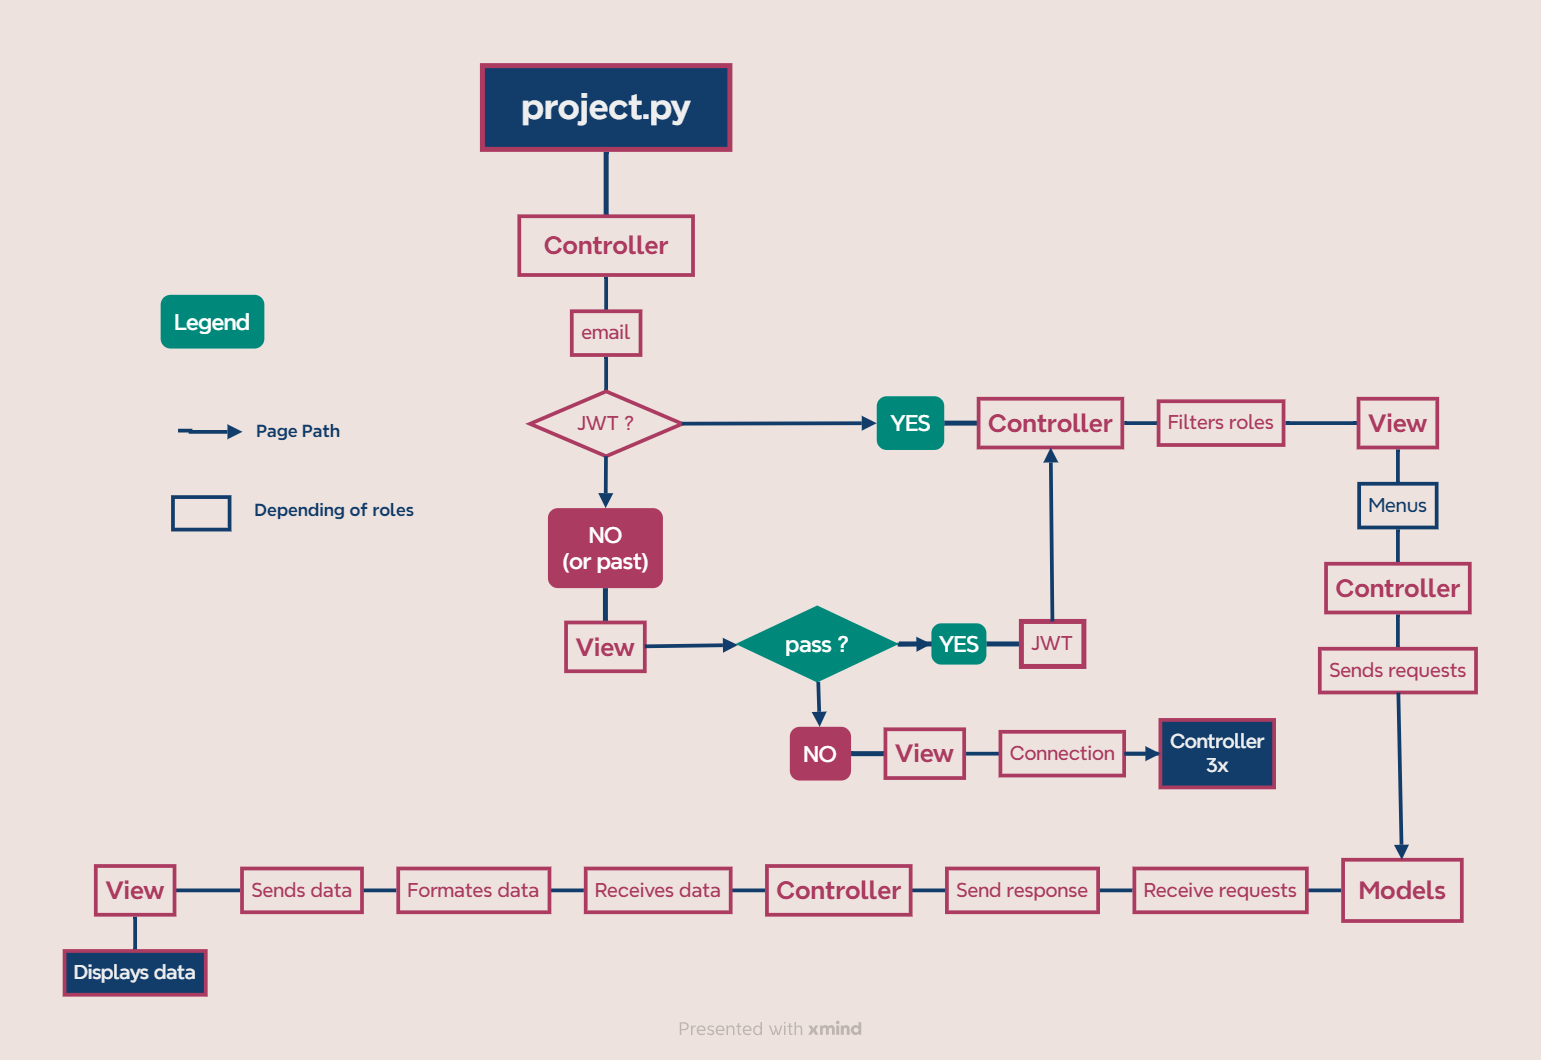
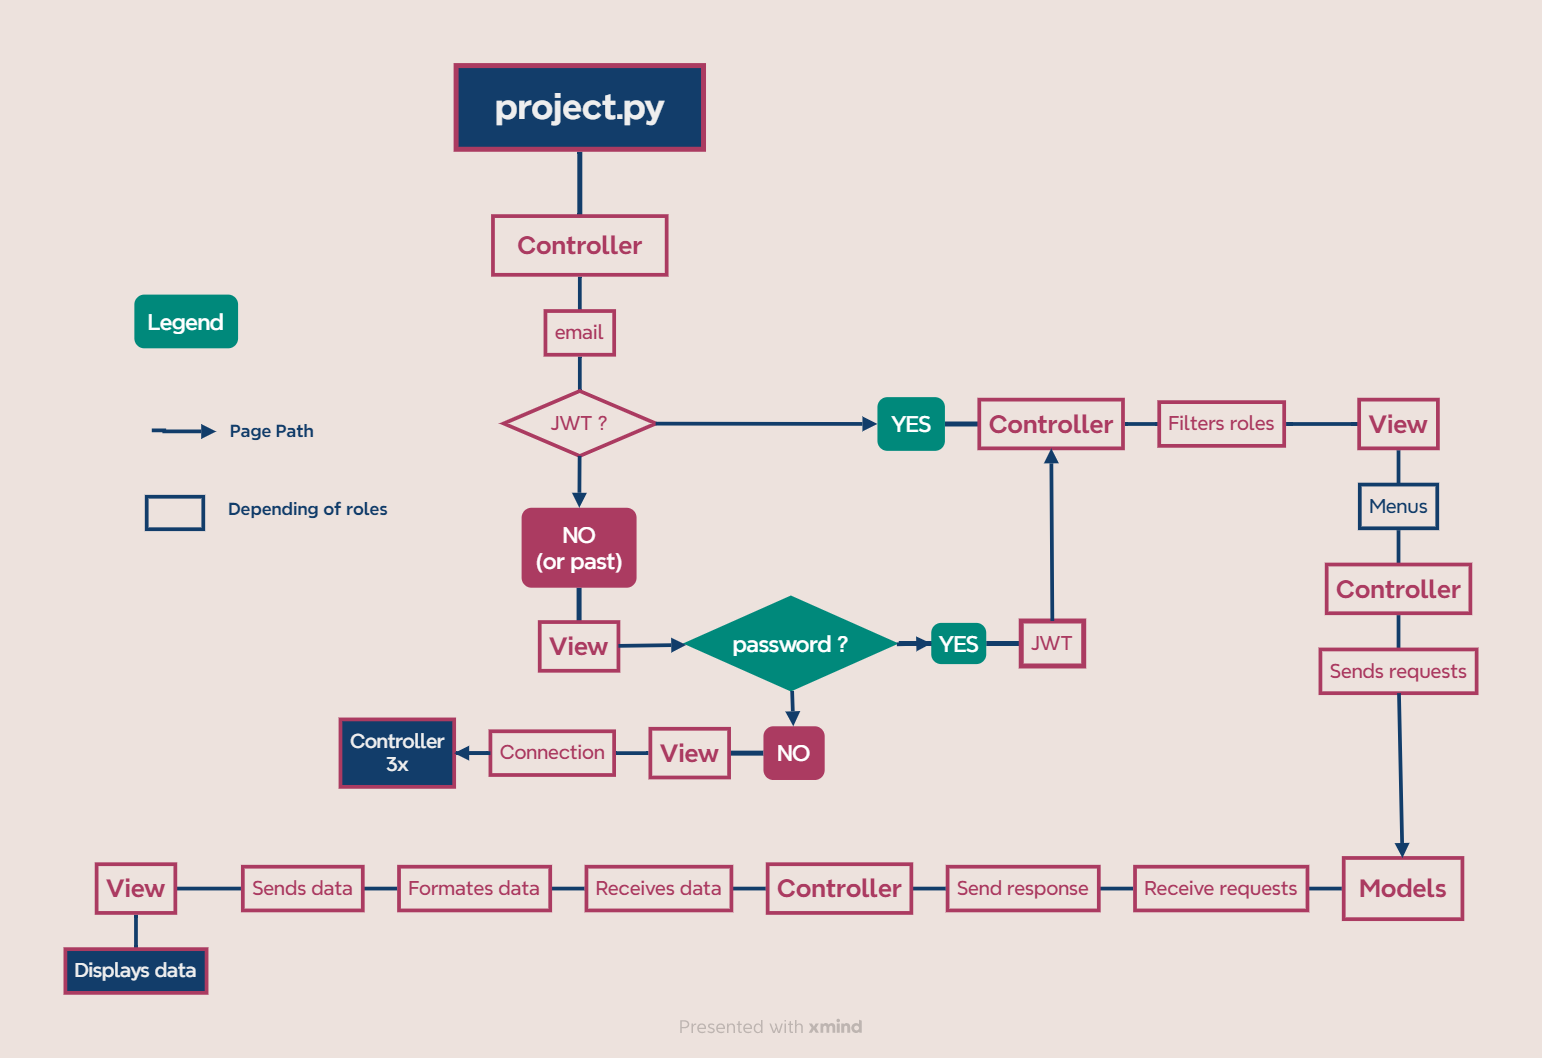
WIP Delete the 'refresh' use. TODO: new token use + test the both.

diff --git a/epic_events/manager.py b/epic_events/manager.py
@@ -43,13 +43,6 @@ class Manager():
         self.session.add(itemName) 
         self.session.commit() 
 
-        # # get token: 
-        # token = self.get_token(2, { 
-        #     'email': fields['email'], 
-        #     # 'pass': fields['password'], 
-        #     'dept': department_name 
-        # }) 
-
         items_db = self.select_all_entities('users') 
         last_item_db = items_db.pop() 
         return last_item_db 
@@ -100,19 +93,6 @@ class Manager():
                 self.session.add(itemName) 
                 self.session.commit() 
 
-                # # get token: 
-                # token = self.get_token(2, { 
-                #     'email': fields['email'], 
-                #     'dept': department_name 
-                # }) 
-
-                # # register token 
-                # self.register_token( 
-                #     fields['email'], 
-                #     'token', 
-                #     token 
-                # ) 
-                # print('Token créé et enregistré. ') 
                 items_db = self.select_all_entities('users') 
 
             elif entity == 'client': 
@@ -623,14 +603,11 @@ class Manager():
     def get_token(self, delta:int, data:dict): 
         """ Creates a token for the new user, that indicates his.her department, 
             with <delta> seconds before expiration. 
-            The type of token can be: 
-                'token' of 'refresh' 
             Args: 
                 delta (int): The number of seconds before expiration. 
                 data (dict): The payload data for the creation of the token: 
                     "email", 
-                    "dept" (name), 
-                    "type" (of token). 
+                    "dept" (name). 
             Returns: 
                 string: The token to register for later use. 
         """ 
@@ -649,7 +626,7 @@ class Manager():
         """ Register the admin token in a crypted file. 
             Process: 
                 - Get the key for encrypt the data. 
-                - Set the email/token/token type as a dictionary. 
+                - Set the email/token as a dictionary. 
                 - Encrypt the data. 
                 - register the data into the file.  
             Args: 
@@ -669,8 +646,6 @@ class Manager():
         # ouvrir le fichier users en écriture en bytes 
         # enregistrer le hash dans le fichier 
         # Encrypt the token 
-        # encrypted = cipher_suite.encrypt(usersTokens) 
-        # encrypted = cipher_suite.encrypt(str(registered).encode('utf-8')) 
         encrypted = cipher_suite.encrypt(str(data_to_encrypt).encode('utf-8')) 
         # Register the encrypted token 
         with open(os.environ.get('TOKEN_PATH'), 'wb') as encrypted_file:
@@ -712,15 +687,15 @@ class Manager():
         # Get the decrypted tokens data 
         registeredData = self.decrypt_token() 
         users = registeredData['users'] 
-        print('users ML727 :', users) 
+        # print('users ML727 :', users) 
         for row in users: 
             # print(row) 
             if connectEmail == row['email']: 
                 users.pop(row) 
-        print('users after pop : ', users) 
+        # print('users after pop : ', users) 
 
         registered['users'] = users 
-        print('registered after ML731 : ', registered) 
+        # print('registered after ML731 : ', registered) 
 
         # Encrypt the token 
         encrypted = cipher_suite.encrypt(str(registered).encode('utf-8')) 
@@ -762,18 +737,7 @@ class Manager():
                         IF it is NOT PAST: 
                             Return the role's permission name 
                         IF it is past: 
-                            Check the delay of expiration 
-                            IF delay >= 1h: 
-                                return 'past' 
-                            IF delay <= 1h: 
-                                Check the tokenType 
-                                IF the tokenType == 'token': 
-                                    Call get_token() with 'refresh' type for refreshing the token 
-                                        (and update + encrypt it into the encrypted file). 
-                                    Return tne role's permission for creation of the 
-                                    user_session by the Controller. 
-                                IF the tokenType == 'refresh': 
-                                    return 'past' 
+                            return 'past' 
                     IF token NOT ok: 
                         return False. 
                 IF token does NOT exist: 
@@ -798,14 +762,10 @@ class Manager():
         if connectEmail == row['email']: 
             # print('ok row : ', row) 
             registeredToken = row['token'] 
-            registeredType = row['type'] 
         # print('registeredToken ML818 : ', registeredToken) 
 
         secret = os.environ.get('JWT_SECRET') 
         algo = os.environ.get('JWT_ALGO') 
-        print('today tuesday') 
-        test = jwt.get_unverified_header(registeredToken) 
-        print('test :', test) 
 
         try: 
             self.userDecode = jwt.decode( 
@@ -813,11 +773,11 @@ class Manager():
                 secret, 
                 algorithms=[algo] 
             ) 
-            print('self.userDecode ML813 : ', self.userDecode) 
+            print('self.userDecode ML810 : ', self.userDecode) 
             userDecode_exp = int(self.userDecode.pop('exp'))-3600 
-            print('time() ML815 :', time()) 
-            print('userDecode_exp ML816 :', userDecode_exp) 
-        # if userDecode_exp < time(): 
+            # print('time() ML815 :', time()) 
+            # print('userDecode_exp ML816 :', userDecode_exp) 
+
             permission = '' 
             if userDecode['dept'] == 'gestion': 
                 permission = 'GESTION' 
@@ -830,48 +790,13 @@ class Manager():
 
         except ExpiredSignatureError as expired: 
             print('expired') 
-            print('self.userDecode :', self.userDecode) 
-            userDecode_exp = int(self.userDecode.pop('exp'))-3600 
-            print('time() ML832 :', time()) 
-            print('userDecode_exp ML833 :', userDecode_exp) 
-            decode_exp = int(self.userDecode.pop('exp'))-3600 
-            print('decode_exp :', decode_exp) 
-            print('time :', time) 
-            # exp_datetime = datetime.strptime(decode_exp, "%m/%d/%Y, %H:%M:%S")  
-            # delay_exp = datetime.now() - exp_datetime 
-            delay_exp = decode_exp-time 
-            print('delay_exp :', delay_exp) 
-
-            if decode_exp >= (datetime+3601): 
-                print('délai + d\'1h. ') 
-            else: 
-                print('délai - d\'1h. ') 
-
-                if registeredType == 'token': 
-                    # print('registeredType ML824 :', registeredType) 
-                    new_token = self.get_token(10, { 
-                        "email": connectEmail, 
-                        "dept": connectDept 
-                    }) 
-                    self.register_token(connectEmail, 'refresh', new_token) 
-                    permission = '' 
-                    if connectDept == 'gestion': 
-                        permission = 'GESTION' 
-                    elif connectDept == 'commerce': 
-                        permission = 'COMMERCE' 
-                    elif connectDept == 'support': 
-                        permission = 'SUPPORT' 
-                    # print('permission ML818 :', permission) 
-                    return permission 
-                else: 
-                    # print('registeredType ML835 :', registeredType) 
-                    return 'past' 
+            return 'past' 
 
         except InvalidToken as invalid: 
             print(invalid) 
-            return None 
+            return False 
 
-    def register_token(self, email, tokenType, token): 
+    def register_token(self, email, token): 
         """ Register the token in a crypted file. 
             Process: 
                 - Get the key for encrypt/decrypt the data. 
@@ -913,7 +838,6 @@ class Manager():
             print('row :', row) 
             if email == row['email']: 
                 print('ok row : ', row) 
-                row['type'] = tokenType 
                 row['token'] = token 
                 # Update the token 
                 presents.append(row['email']) 
@@ -921,7 +845,7 @@ class Manager():
         if presents == []: 
             # print('presents is emplty : ', presents) 
             # Add the new user into the dict users 
-            users.append({"email": email, "type": tokenType, "token": token}) 
+            users.append({"email": email, "token": token}) 
         registered['users'] = users 
 
         # chiffrer registered mis à jour 

diff --git a/epic_events/controller.py b/epic_events/controller.py
@@ -310,44 +310,29 @@ class Controller():
     def connect_user(self, mode): 
         """ Connects a user to the application. 
             Process: 
-                - Check the email with the registered email 
-                - Check if the token exists and is not expired 
+                - Compare the email with the registered email 
                 If email does not exist: 
                     message
                     quit the app. 
                 else: 
+                    - Check if the token exists and is not expired 
                     if token does not exist: 
                         ask for password 
                         if pw ok: 
                             get token 
-                            register token with tokenType = 'token' 
+                            register token 
                             return permission = dept.upper() 
                         if pw NOT ok: 
                             message
                             quit the app. 
-                    else: 
+                    if token exists: 
                         If token is not ok: 
                             message
                             quit the app. 
-                        If token ok: 
-                            check the expiration: 
-                            if past: 
-                                check the delay of expiration 
-                                if delay > 1h: 
-                                    ask for password 
-
-                                if delay < 1h: 
-                                    check the tokenType: 
-                                    if tokenType is 'token': 
-                                        get new token 
-                                        register new token with tokenType = 'refresh' 
-                                        return permission = dept.upper() 
-                                    if tokenType is 'refresh': 
-                                        ask for password 
-
-                            if NOT past: 
-                                return permission = dept.upper() 
-
+                        If token ok and NOT expired: 
+                            return permission = dept.upper() 
+                        If token ok and expired: 
+                            return 'past' 
 
             Args: 
                 mode (str): The mothod to send the user credentials 
@@ -364,13 +349,8 @@ class Controller():
             exp ? 
             exp ok: 
                 return dept 
-            exp NOT ok: 
-                exp delay ? 
-                    delay > 1h: 
-
-                tokenType ? 
-                    'token': 
-                        new token 
+            exp NOT ok or past: 
+                return 'past' 
         """ 
         print('connect_user mode de saisie (dev / pub) : ', mode) 
         userConnect = {} 
@@ -392,14 +372,16 @@ class Controller():
         self.logged_user = self.manager.select_one_user('email', userConnect['email']) 
         if self.logged_user: 
             # Check if the token exists 
-            # if self.manager.verify_if_token_exists(self.logged_user.email): 
+            row = self.manager.verify_if_token_exists( 
+                self.logged_user.email) 
+            if row is not None: 
                 # Check token for connected user + department 
-            if self.check_token(self.logged_user): 
-                self.dashboard.display_welcome( 
-                    self.logged_user.name, 
-                    self.logged_user.department.name 
-                ) 
-                self.press_enter_to_continue() 
+                if self.check_token(row): 
+                    self.dashboard.display_welcome( 
+                        self.logged_user.name, 
+                        self.logged_user.department.name 
+                    ) 
+                    self.press_enter_to_continue() 
             else: 
                 pass_counter = 1 
                 userPass = '' 
@@ -408,21 +390,24 @@ class Controller():
                 elif mode == 'pub': 
                     userPass = self.views.input_user_connection_pass() 
                 if self.check_pw(mode, self.logged_user, userPass): 
+                    token = self.manager.get_token(60, { 
+                        'email': self.logged_user.email, 
+                        'dept': self.logged_user.department.name 
+                    }) 
+                    self.manager.register_token( 
+                        self.logged_user.email, token) 
+
                     self.dashboard.display_welcome( 
                         self.logged_user.name, 
                         self.logged_user.department.name 
                     ) 
                     self.press_enter_to_continue() 
                 else: 
-                    print('Les informations saisies ne sont pas bonnes, Veuillez contacter un administrateur.')                 
+                    print('Les informations saisies ne sont pas bonnes, veuillez contacter un administrateur.')                 
                     self.close_the_app() 
         else: 
-            # Ask for password 
-            pass 
-
-        # else: 
-        #     print('Ce mail n\'est pas enregistré, veuillez contacter un administrateur.') 
-        #     self.close_the_app() 
+            print('Ce mail n\'est pas enregistré, veuillez contacter un administrateur.') 
+            self.close_the_app() 
 
 
     # ==== register methods ==== # 
@@ -1141,7 +1126,7 @@ class Controller():
                     pass_counter += 1 
                     self.check_pw(mode, pass_counter) 
             elif mode == 'dev': 
-                print('IL y a un problème avec le pw.')                 
+                print('Il y a un problème avec le pw.')                 
                 self.close_the_app() 
             else: 
                 return False 
@@ -1149,20 +1134,20 @@ class Controller():
             return False 
 
 
-    def check_token(self): 
+    def check_token(self, row): 
         """ Checks token's department and expiration time for connected user 
             for each request. 
             Args: 
                 User object: the authenticated user instance. 
         """ 
-        row = self.manager.verify_if_token_exists(self.logged_user.email) 
-        if row: 
-            self.user_session = self.manager.verify_token( 
-                self.logged_user.email, 
-                self.logged_user.department.name, 
-                row 
-            ) 
-        print('self.user_session CL1080 : ', self.user_session) 
+        # row = self.manager.verify_if_token_exists(self.logged_user.email) 
+        # if row: 
+        self.user_session = self.manager.verify_token( 
+            self.logged_user.email, 
+            self.logged_user.department.name, 
+            row 
+        ) 
+        print('self.user_session CL1142 : ', self.user_session) 
 
         if self.user_session in ['GESTION', 'COMMERCE', 'SUPPORT']: 
             return True 
